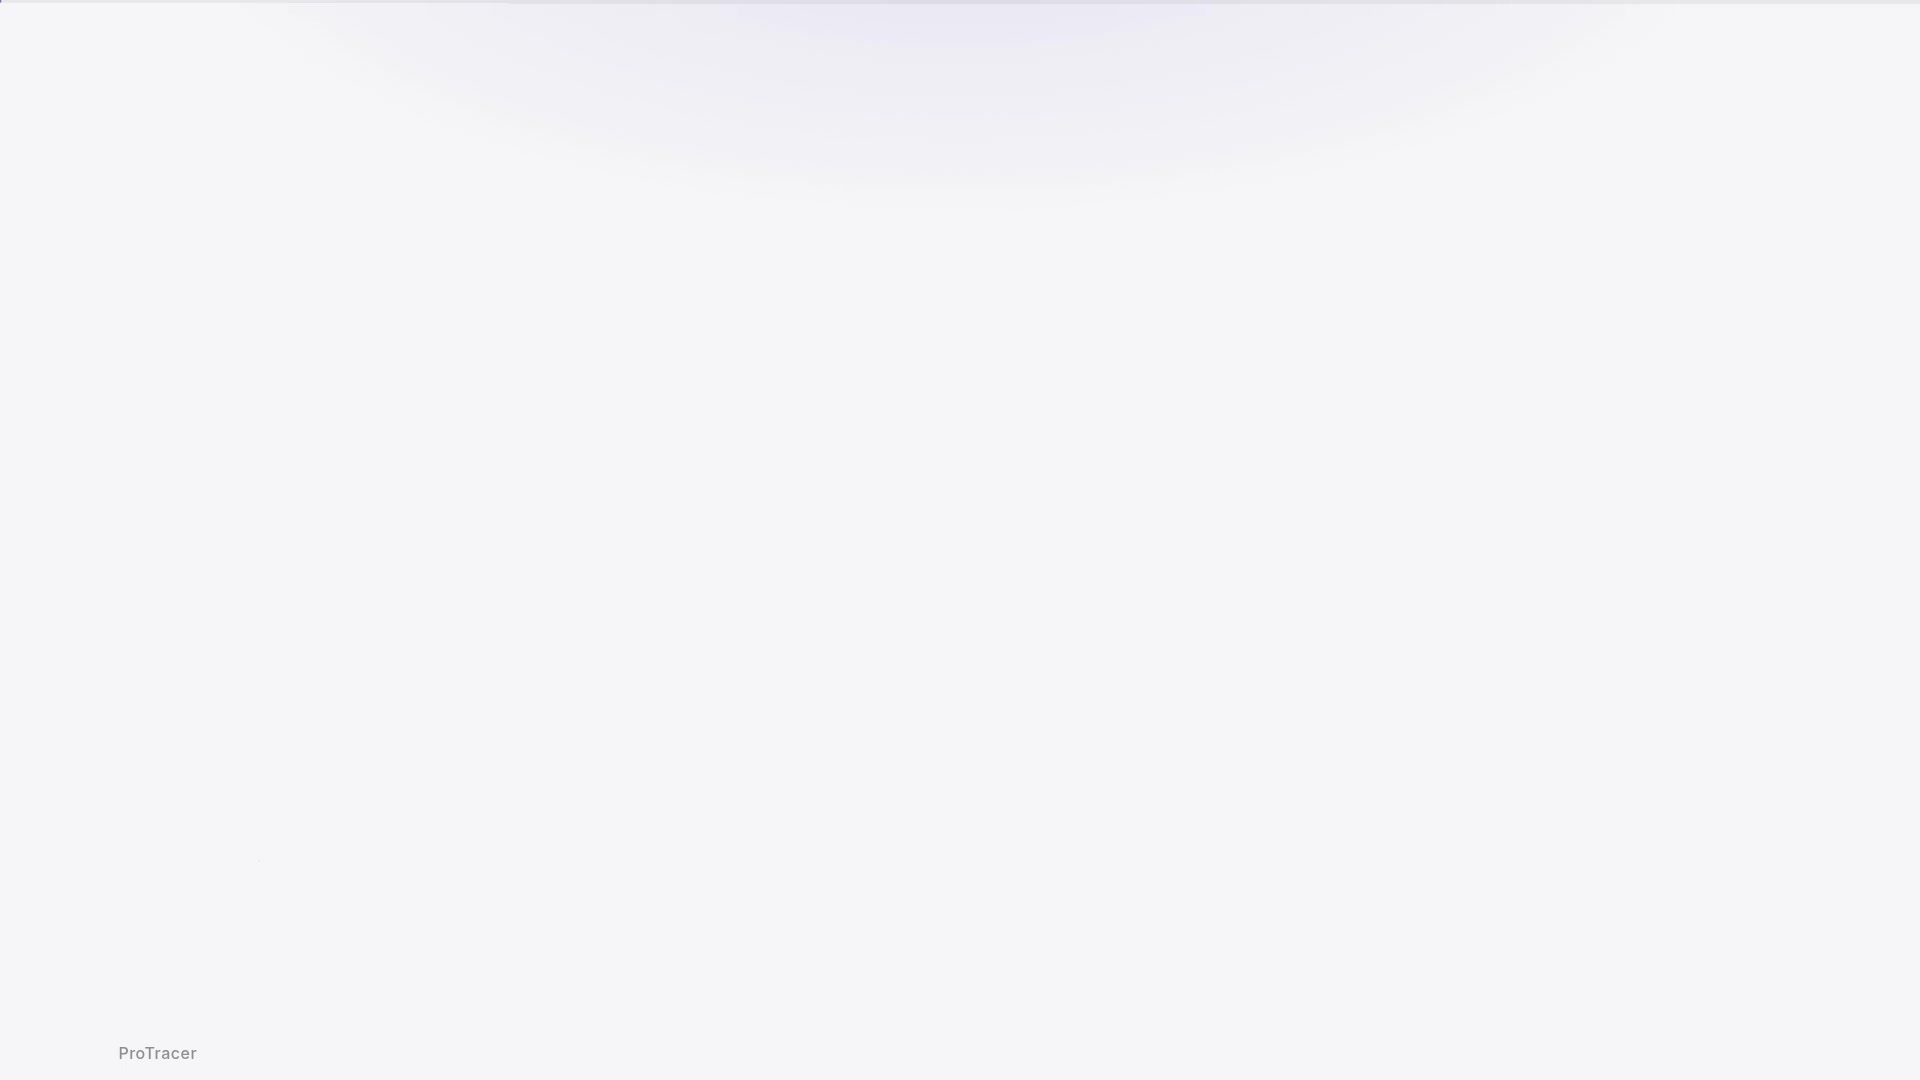
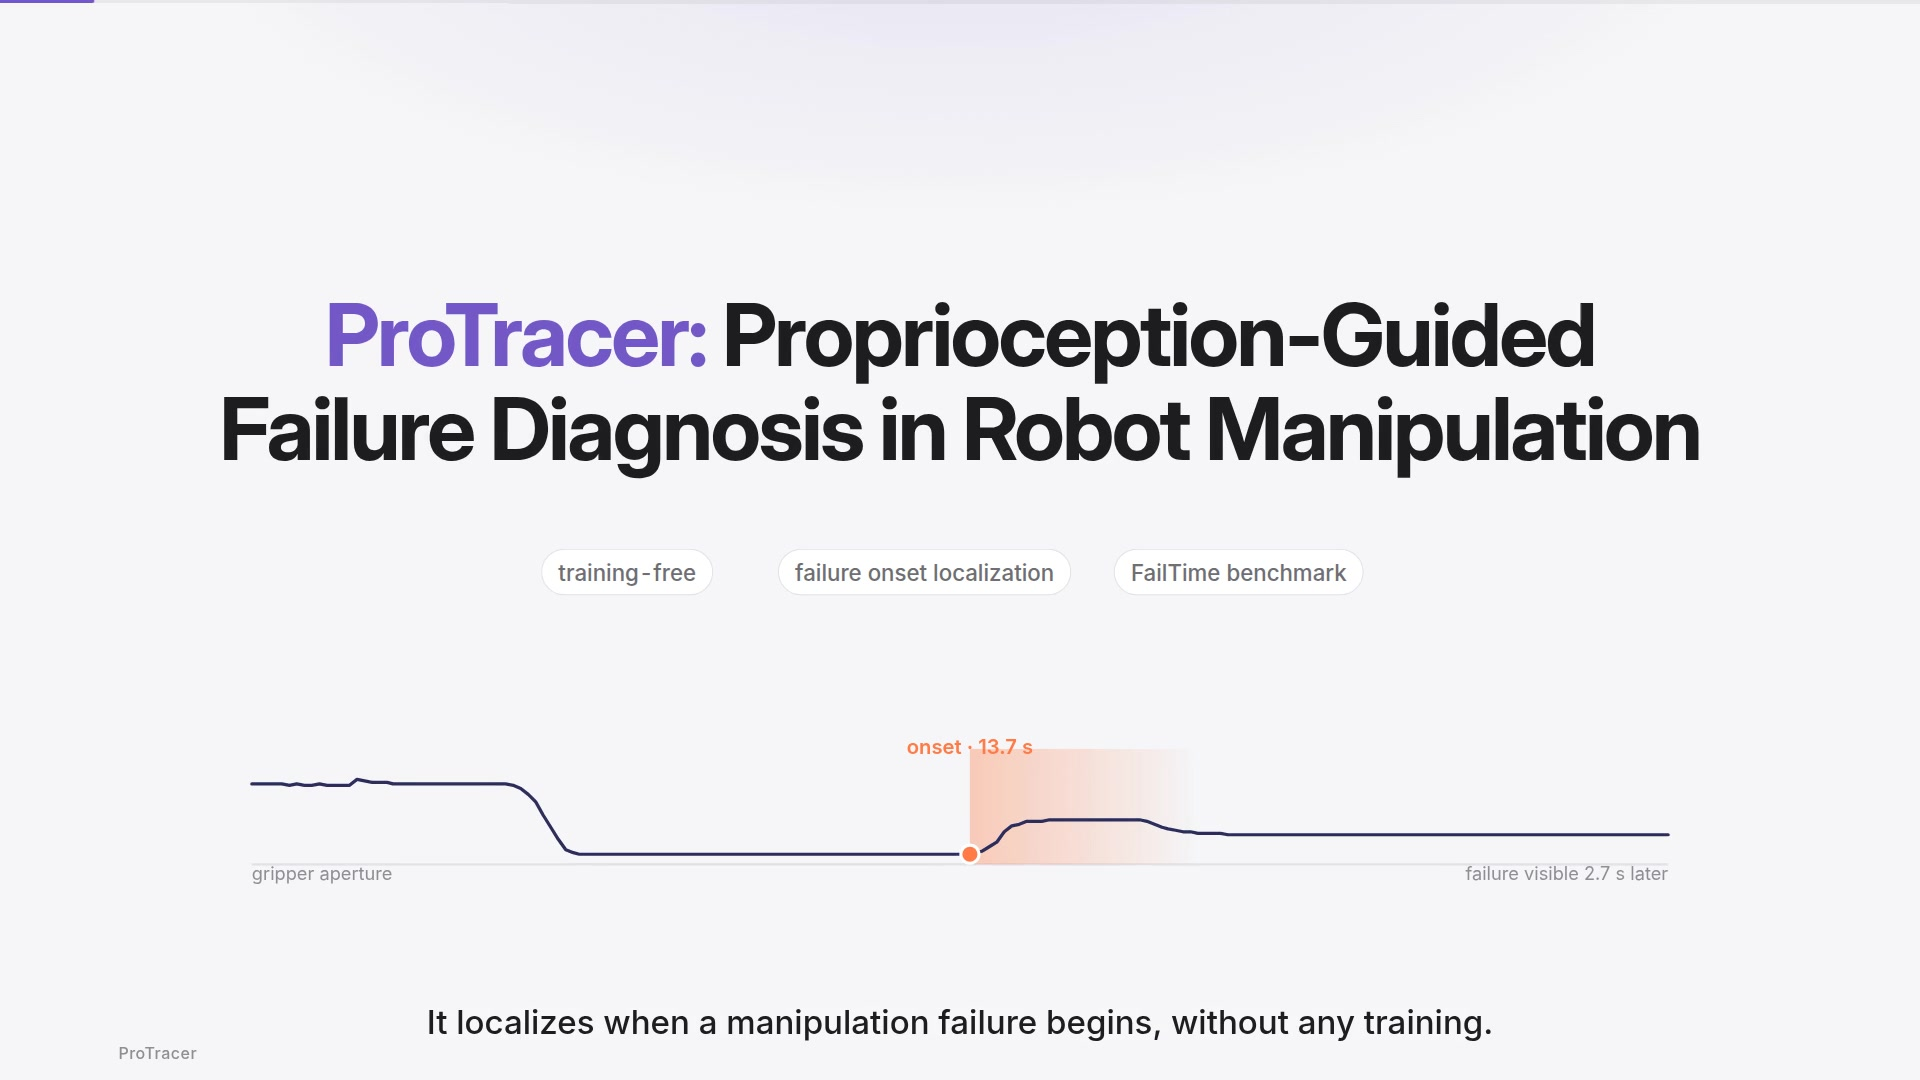
Use nine-second frame as video poster

diff --git a/index.html b/index.html
@@ -39,7 +39,7 @@
     <section id="overview">
       <h2>Overview</h2>
       <figure class="overview-video">
-        <video controls preload="metadata" playsinline poster="assets/ProTracer_project_page_video_frame_0009.jpg">
+        <video controls preload="metadata" playsinline poster="assets/ProTracer_project_page_video_frame_0009.jpg?v=9s">
           <source src="assets/ProTracer_project_page_video_female_bgm_ariv.mp4" type="video/mp4">
           Your browser does not support the video tag.
         </video>

diff --git a/tests/test_project_links.py b/tests/test_project_links.py
@@ -1,4 +1,5 @@
 from html.parser import HTMLParser
+import hashlib
 from pathlib import Path
 import unittest
 
@@ -65,6 +66,20 @@ class ProjectLinksTest(unittest.TestCase):
         self.assertIn('data="ProTracer_Arxiv.pdf"', paper_page)
         self.assertIn('href="ProTracer_Arxiv.pdf"', paper_page)
         self.assertIn("download", paper_page)
+
+    def test_overview_video_uses_the_nine_second_poster(self):
+        poster = Path("assets/ProTracer_project_page_video_frame_0009.jpg")
+        digest = hashlib.sha256(poster.read_bytes()).hexdigest()
+        source = Path("index.html").read_text(encoding="utf-8")
+
+        self.assertEqual(
[1 lines of base64/hex data omitted]
+            digest,
+        )
+        self.assertIn(
+            'poster="assets/ProTracer_project_page_video_frame_0009.jpg?v=9s"',
+            source,
+        )
 
 
 if __name__ == "__main__":
